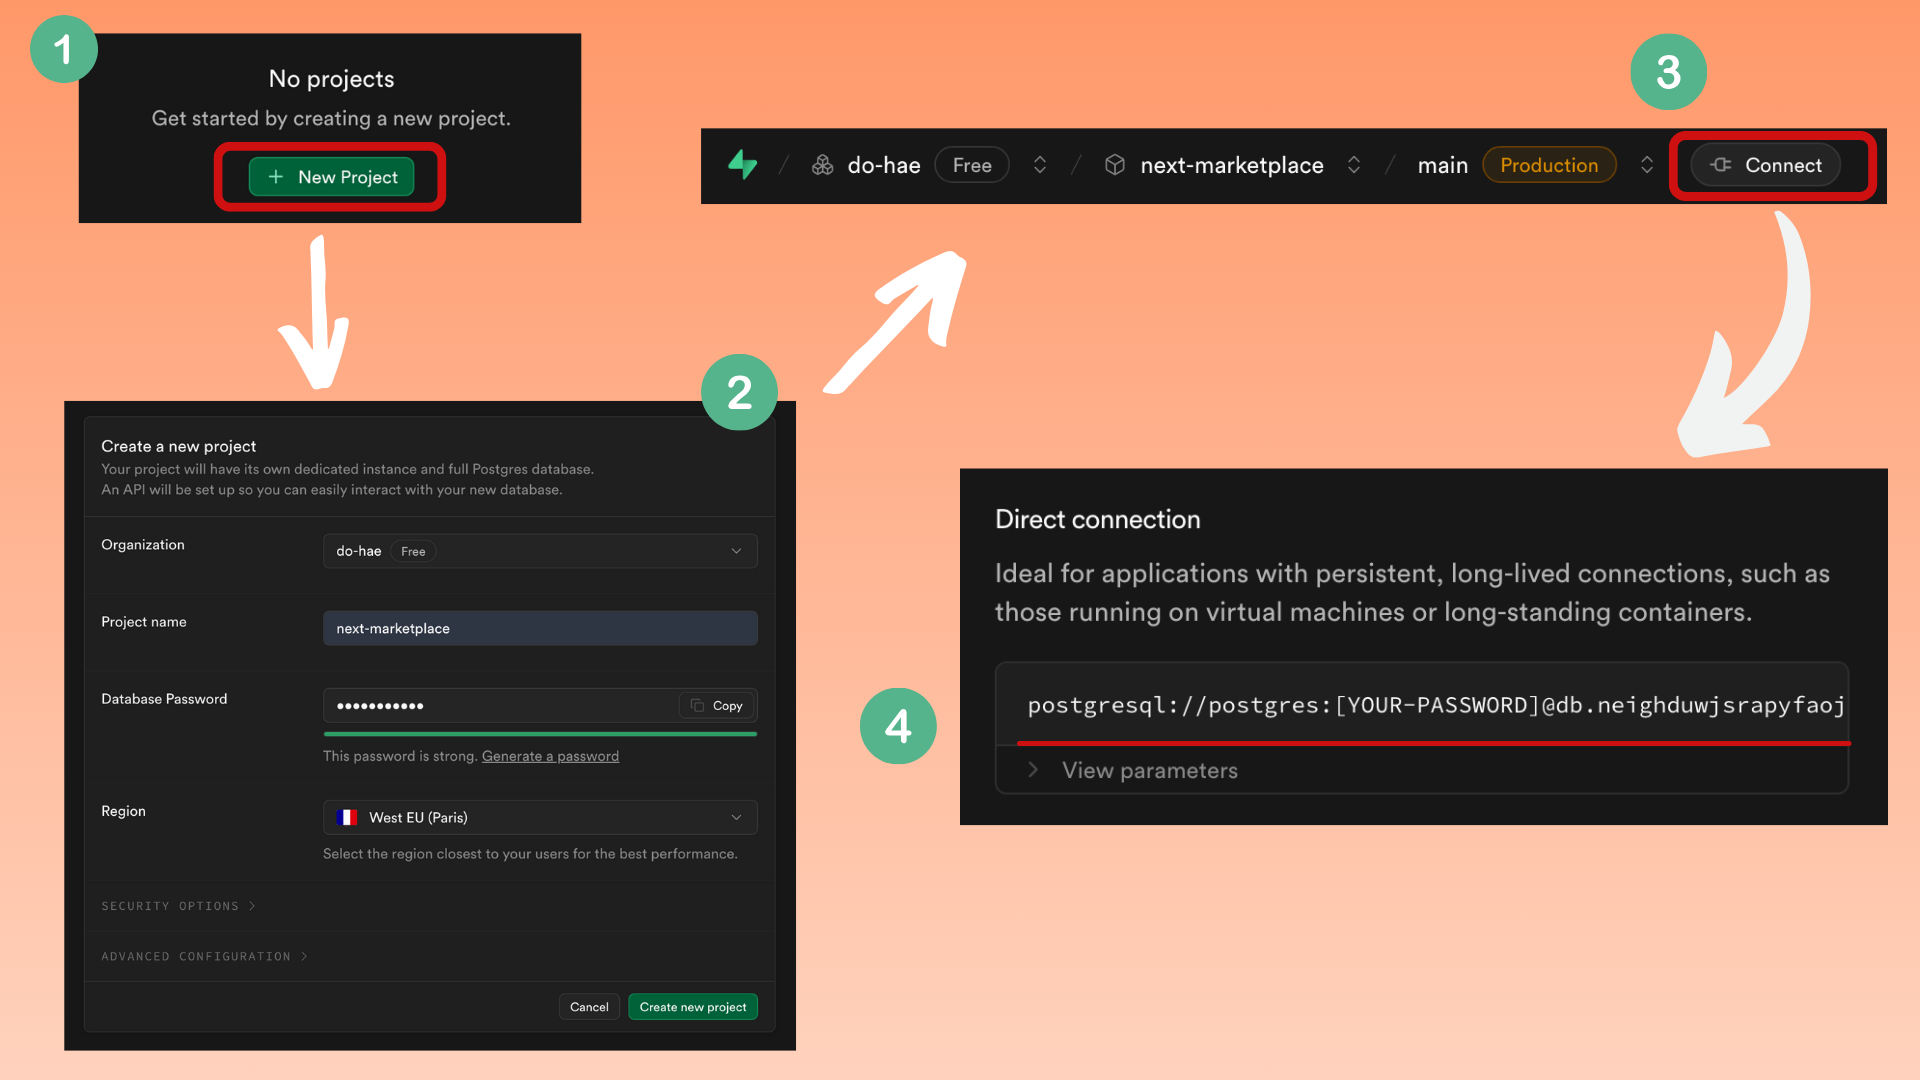
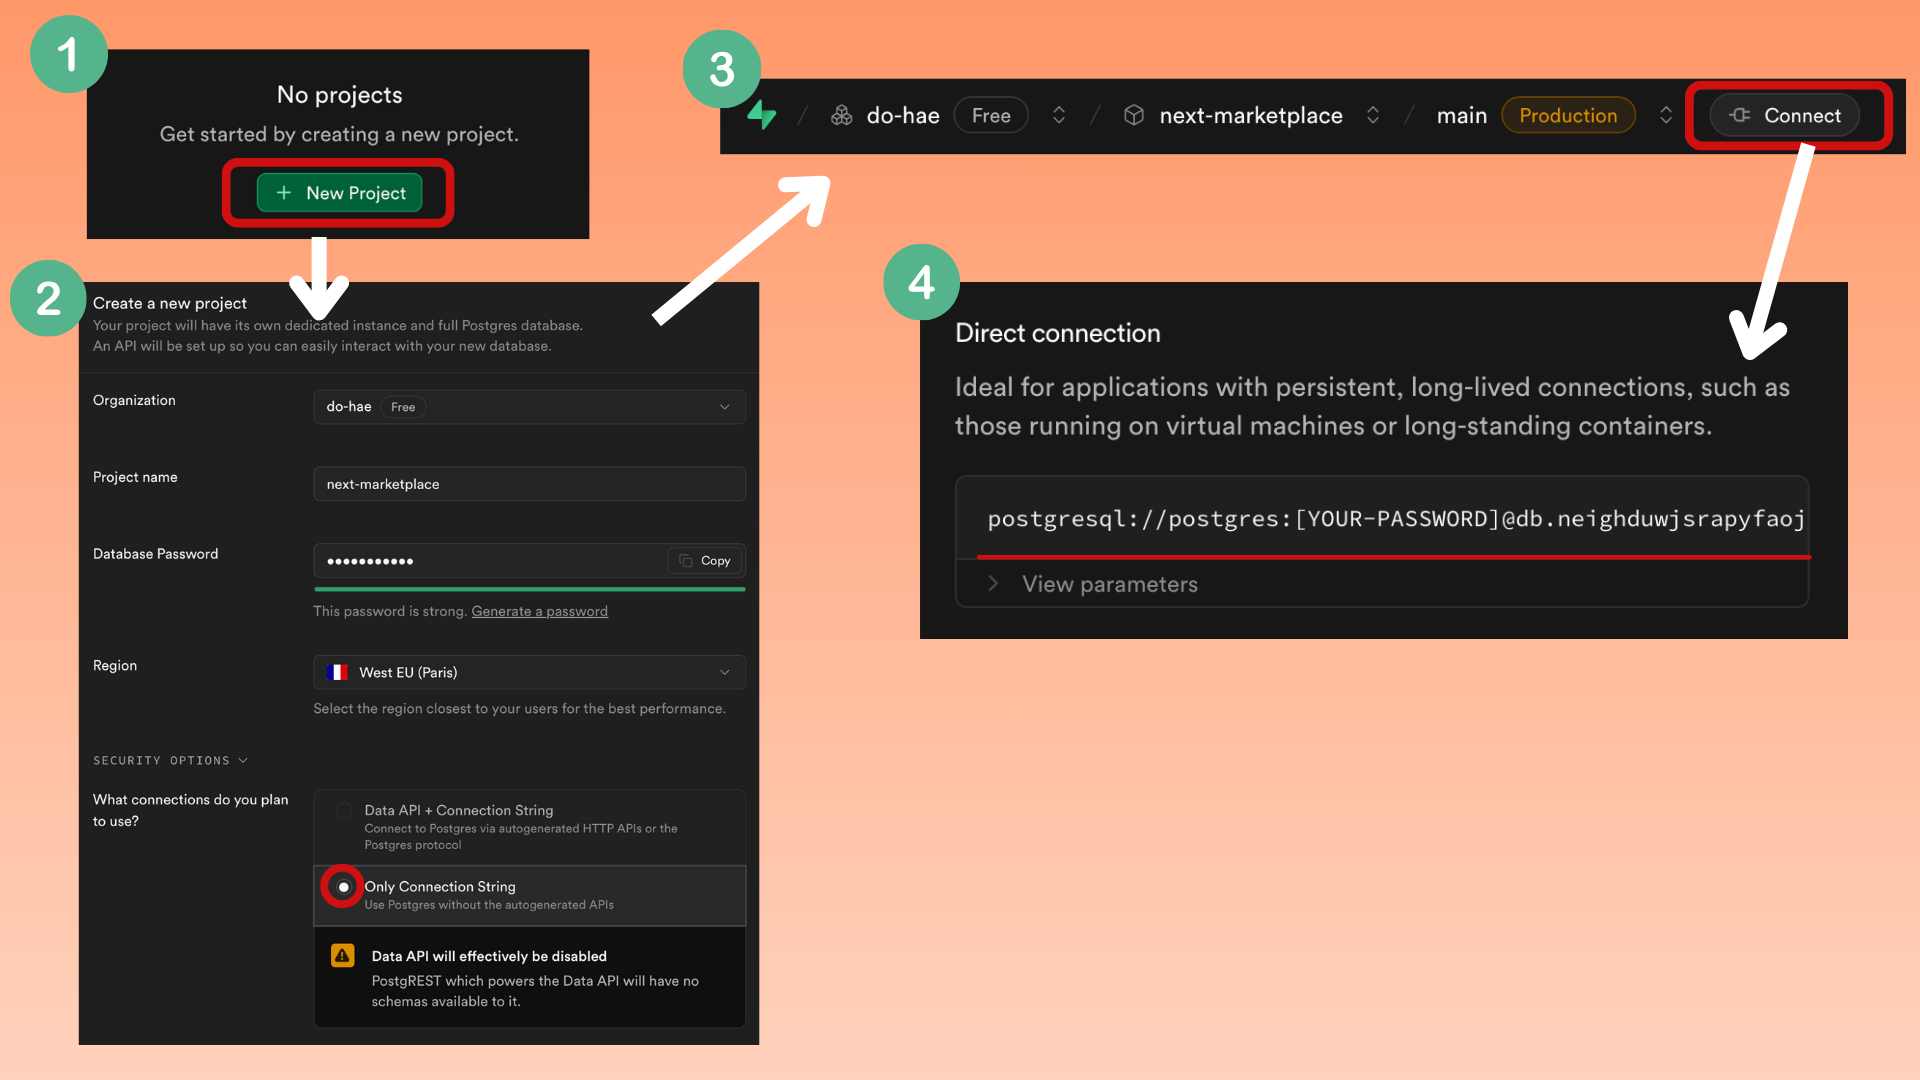
docs: Update README

diff --git a/README.md b/README.md
@@ -139,10 +139,11 @@ Copy and paste the commands below into your terminal to set up and run the proje
 ### 0. Install Prerequisites
 
 Before starting, make sure these are installed on your computer:
- - **Node.js** (version 20 or higher) → [Download here](https://nodejs.org/en/download/) 
- - **Git** → [Download here](https://git-scm.com/downloads) 
- 
- To check if they are installed, run in your terminal:
+
+- **Node.js** (version 20 or higher) → [Download here](https://nodejs.org/en/download/)
+- **Git** → [Download here](https://git-scm.com/downloads)
+
+To check if they are installed, run in your terminal:
 
 ```bash
 node -v
@@ -196,7 +197,7 @@ cp .env.example .env
 
 | Variable(s)                                                                                                                                                | Required?   | Purpose / Usage                                                                            | How to Obtain                                                                                                                                                                                                                                                                                                                                                                                                                                                                                                                                                                                                                                                       |
 | ---------------------------------------------------------------------------------------------------------------------------------------------------------- | ----------- | ------------------------------------------------------------------------------------------ | ------------------------------------------------------------------------------------------------------------------------------------------------------------------------------------------------------------------------------------------------------------------------------------------------------------------------------------------------------------------------------------------------------------------------------------------------------------------------------------------------------------------------------------------------------------------------------------------------------------------------------------------------------------------- |
-| `PRISMA_DATABASE_URL` / `NEXT_PUBLIC_SUPABASE_URL` / `NEXT_PUBLIC_SUPABASE_PUBLIC_API_KEY`                                                                 | ✅ Yes      | **Database connection** & **Realtime chat**                                                | 1. Sign up at [Supabase](https://supabase.com/) and create a **Free Plan** project.<br>2. Once the project is ready, click **Connect** at the top.<br>3. In **Direct Connection**, copy the connection string and replace `password` with your actual DB password → `PRISMA_DATABASE_URL`.<br>4. Go to **Project Settings → Data API**.<br>5. Copy **Project URL** → `NEXT_PUBLIC_SUPABASE_URL`.<br>6. Go to **API Keys**, copy the **anon public** key → `NEXT_PUBLIC_SUPABASE_PUBLIC_API_KEY`.                                                                                                                                                                    |
+| `PRISMA_DATABASE_URL` / `NEXT_PUBLIC_SUPABASE_URL` / `NEXT_PUBLIC_SUPABASE_PUBLIC_API_KEY`                                                                 | ✅ Yes      | **Database connection** & **Realtime chat**                                                | 1. Sign up at [Supabase](https://supabase.com/) and create a **Free Plan** project.<br>2. Once the project is ready, click **Connect** at the top.<br>3. In **Direct Connection**, copy the connection string and replace `password` with your actual DB password → `PRISMA_DATABASE_URL`.<br>See [here](#-how-to-get-prisma_database_url-from-supabase) for detailed steps.<br>4. Go to **Project Settings → Data API**.<br>5. Copy **Project URL** → `NEXT_PUBLIC_SUPABASE_URL`.<br>6. Go to **API Keys**, copy the **anon public** key → `NEXT_PUBLIC_SUPABASE_PUBLIC_API_KEY`.                                                                                     |
 | `COOKIE_PASSWORD`                                                                                                                                          | ✅ Yes      | **Encrypts session cookies** for secure authentication.                                    | Generate a secure random string (32+ characters) via [GeneratePassword.org](https://generatepassword.org).                                                                                                                                                                                                                                                                                                                                                                                                                                                                                                                                                          |
 | `GITHUB_CLIENT_ID` / `GITHUB_CLIENT_SECRET`                                                                                                                | ⚠ Optional | Enables **GitHub OAuth login**.                                                            | Go to [GitHub Developer Settings](https://github.com/settings/developers) → **OAuth Apps** → **Register a new application**.<br>**Homepage URL:** `http://localhost:3000/login`<br>**Authorization callback URL:** `http://localhost:3000/api/github/complete`<br>Copy the **Client ID** → `GITHUB_CLIENT_ID`.<br>Click **Generate new client secret**, copy it → `GITHUB_CLIENT_SECRET`.                                                                                                                                                                                                                                                                           |
 | `GOOGLE_CLIENT_ID` / `GOOGLE_CLIENT_SECRET` / `GOOGLE_REDIRECT_URI`                                                                                        | ⚠ Optional | Enables **Google OAuth login**.                                                            | Go to [Google Cloud Console](https://console.cloud.google.com/).<br>1. Create a new project if needed.<br>2. **APIs & Services → OAuth consent screen** → Configure (External).<br>3. **APIs & Services → Credentials** → **Create Credentials → OAuth Client ID**.<br>4. **Application type:** Web application<br>5. **Authorized JavaScript origins:** `http://localhost:3000`<br>6. **Authorized redirect URIs:** `http://localhost:3000/api/google/complete`<br>7. Copy **Client ID** → `GOOGLE_CLIENT_ID`. <br>8. Copy **Client Secret** → `GOOGLE_CLIENT_SECRET`.<br>9. Set `GOOGLE_REDIRECT_URI` to `http://localhost:3000/api/google/complete`.             |
@@ -209,11 +210,12 @@ cp .env.example .env
 
 0. **Sign up for Supabase** at [https://supabase.com](https://supabase.com) and choose the **Free Plan**.
 1. **Create a New Project** from your dashboard.
-2. Once the project is ready, click the **Connect** button at the top of the page.
-3. In the popup, find the **Direct Connection** section.
-4. **Copy the provided connection URL**.
-5. Replace the `[YOUR-PASSWORD]` part of the URL with **your own database password** (set when creating the project). _Without the square brackets or it may cause errors!_
-6. Paste the final URL into your `.env` file as:
+2. Security Options → “What connections do you plan to use?” → select **Only Connection String**.
+3. Once the project is ready, click the **Connect** button at the top of the page.
+4. In the popup, find the **Direct Connection** section.
+5. **Copy the provided connection URL**.
+6. Replace the `[YOUR-PASSWORD]` part of the URL with **your own database password** (set when creating the project). _Without the square brackets or it may cause errors!_
+7. Paste the final URL into your `.env` file as:
    ```bash
    PRISMA_DATABASE_URL="your_direct_connection_url_with_password"
    ```
@@ -265,5 +267,5 @@ Open this link in your browser to view the app
 
 - **Expanded Location Filtering** – Support multiple countries and dynamic radius selection.
   <br>
-  
+
 - **Keyword-Based Alerts** – Allow users to define keywords for items they are interested in. Notify them when a new listing matches their keywords.
